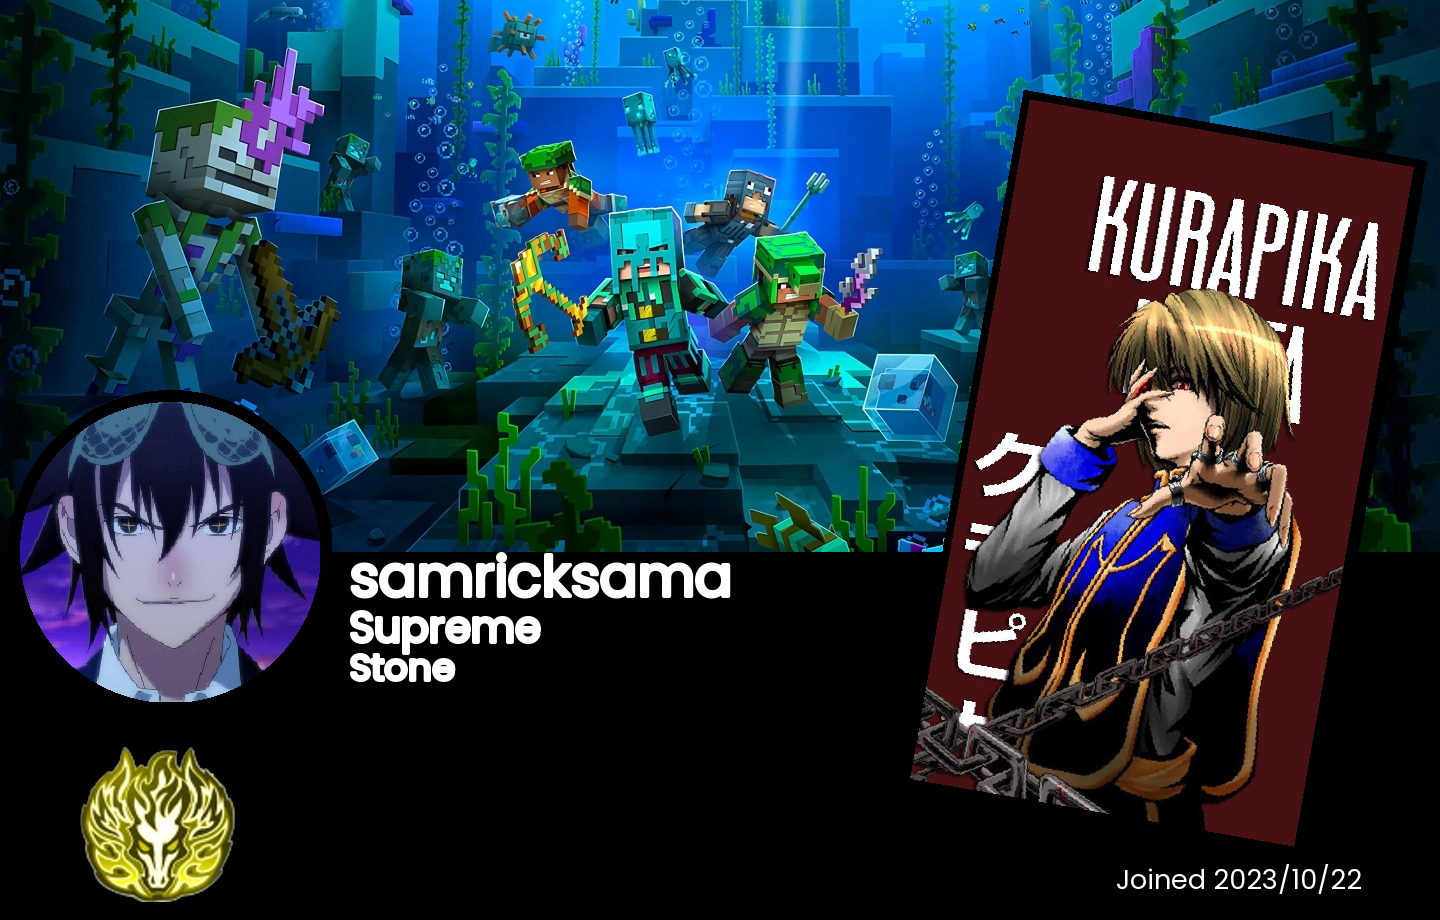
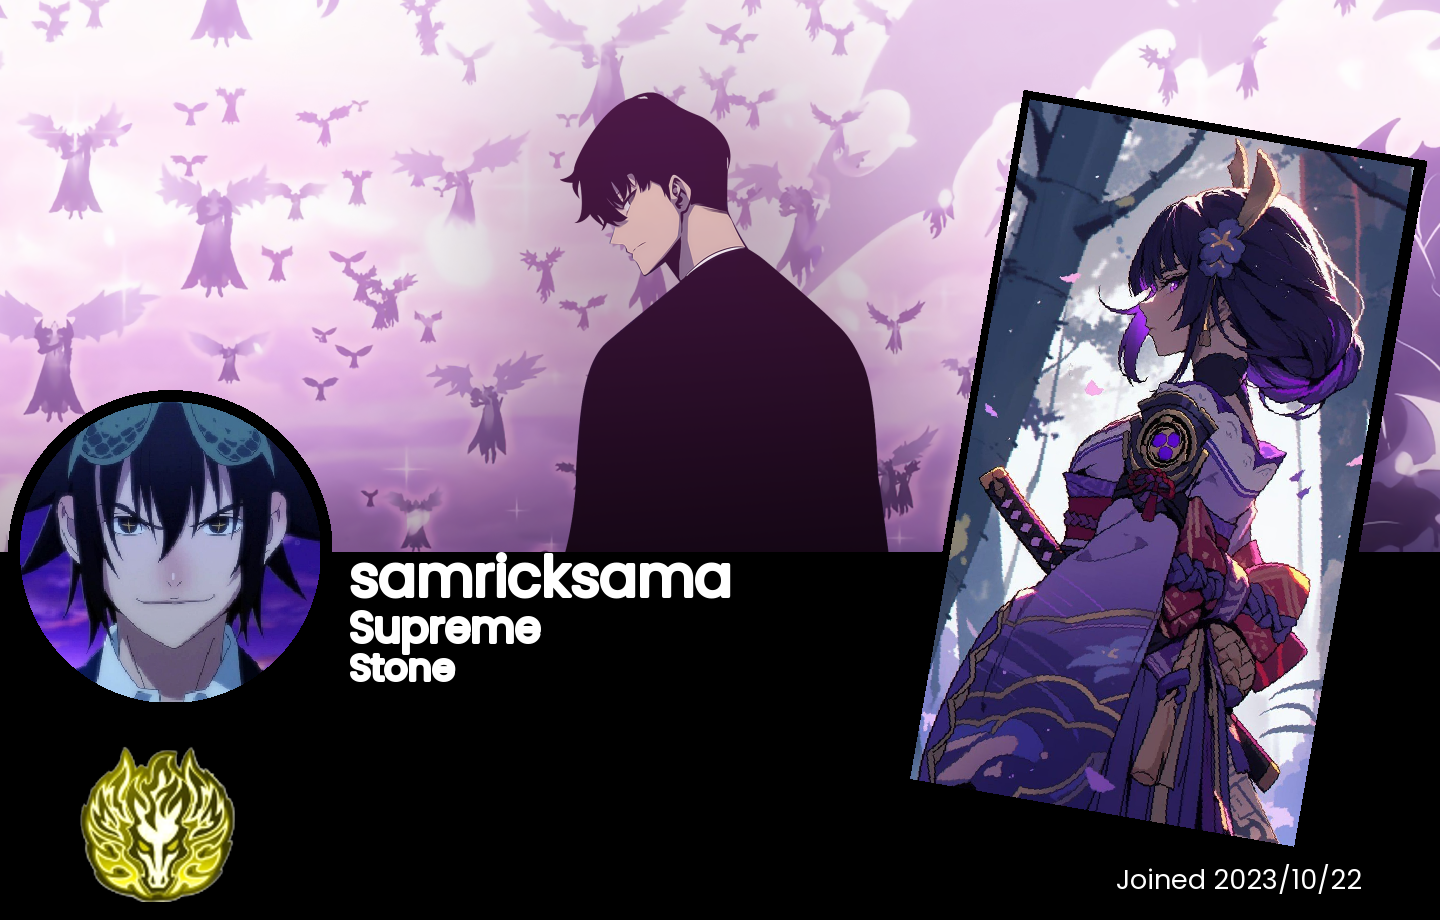
kekupdate

diff --git a/Convictions/bgshop.py b/Convictions/bgshop.py
@@ -78,7 +78,17 @@ background_prices = {
     72: 4500,
     73: 9990,
     74: 10000,
-    75: 20000
+    75: 20000,
+    76: 25000,
+    77: 15500,
+    78: 24000,
+    79: 25500,
+    80: 19000,
+    81: 8000,
+    82: 30000,
+    83: 18000,
+    84: 9000,
+    85: 6900
 }
 
 # Define background descriptions (adjust as needed)
@@ -157,7 +167,17 @@ background_descriptions = {
     72: "power: blood devil",
     73: "violet : EVERGARDEN",
     74: "kazutora: tokyo revnegers ",
-    75: "Gundam"
+    75: "Gundam",
+    76: "ken  kaneki : tokyo ghoul",
+    77: "Gojo : damn",
+    78: "ichika : quintestial",
+    79: "nino : quintestials",
+    80: "ryomen sukuna",
+    81: "SAGIRI : cutest anime chatracter 10/10",
+    82: "hu tau : genshin impact",
+    83: "ZHONGLI",
+    84: "Itachi : Ur already in my genjutsu",
+    85: "itachi : daddy version"
 }
 
 async def show_background_shop(ctx, background_folder, user_balance,  filtered_backgrounds=None):

diff --git a/main.py b/main.py
@@ -746,7 +746,7 @@ async def buybg(ctx, background_id: int):
             currency_data[user_id] = currency_data.get(user_id, 0) - price
 
             # Determine the extension type based on the background_id
-            if background_id in [11, 69]:  # Background 11 is in PNG format
+            if background_id in [11, 69, 81]:  # Background 11 is in PNG format
                 extension = 'png'
             # elif background_id in [67, 68]:  # Backgrounds 67 and 68 are in GIF format
             #     extension = 'gif'
